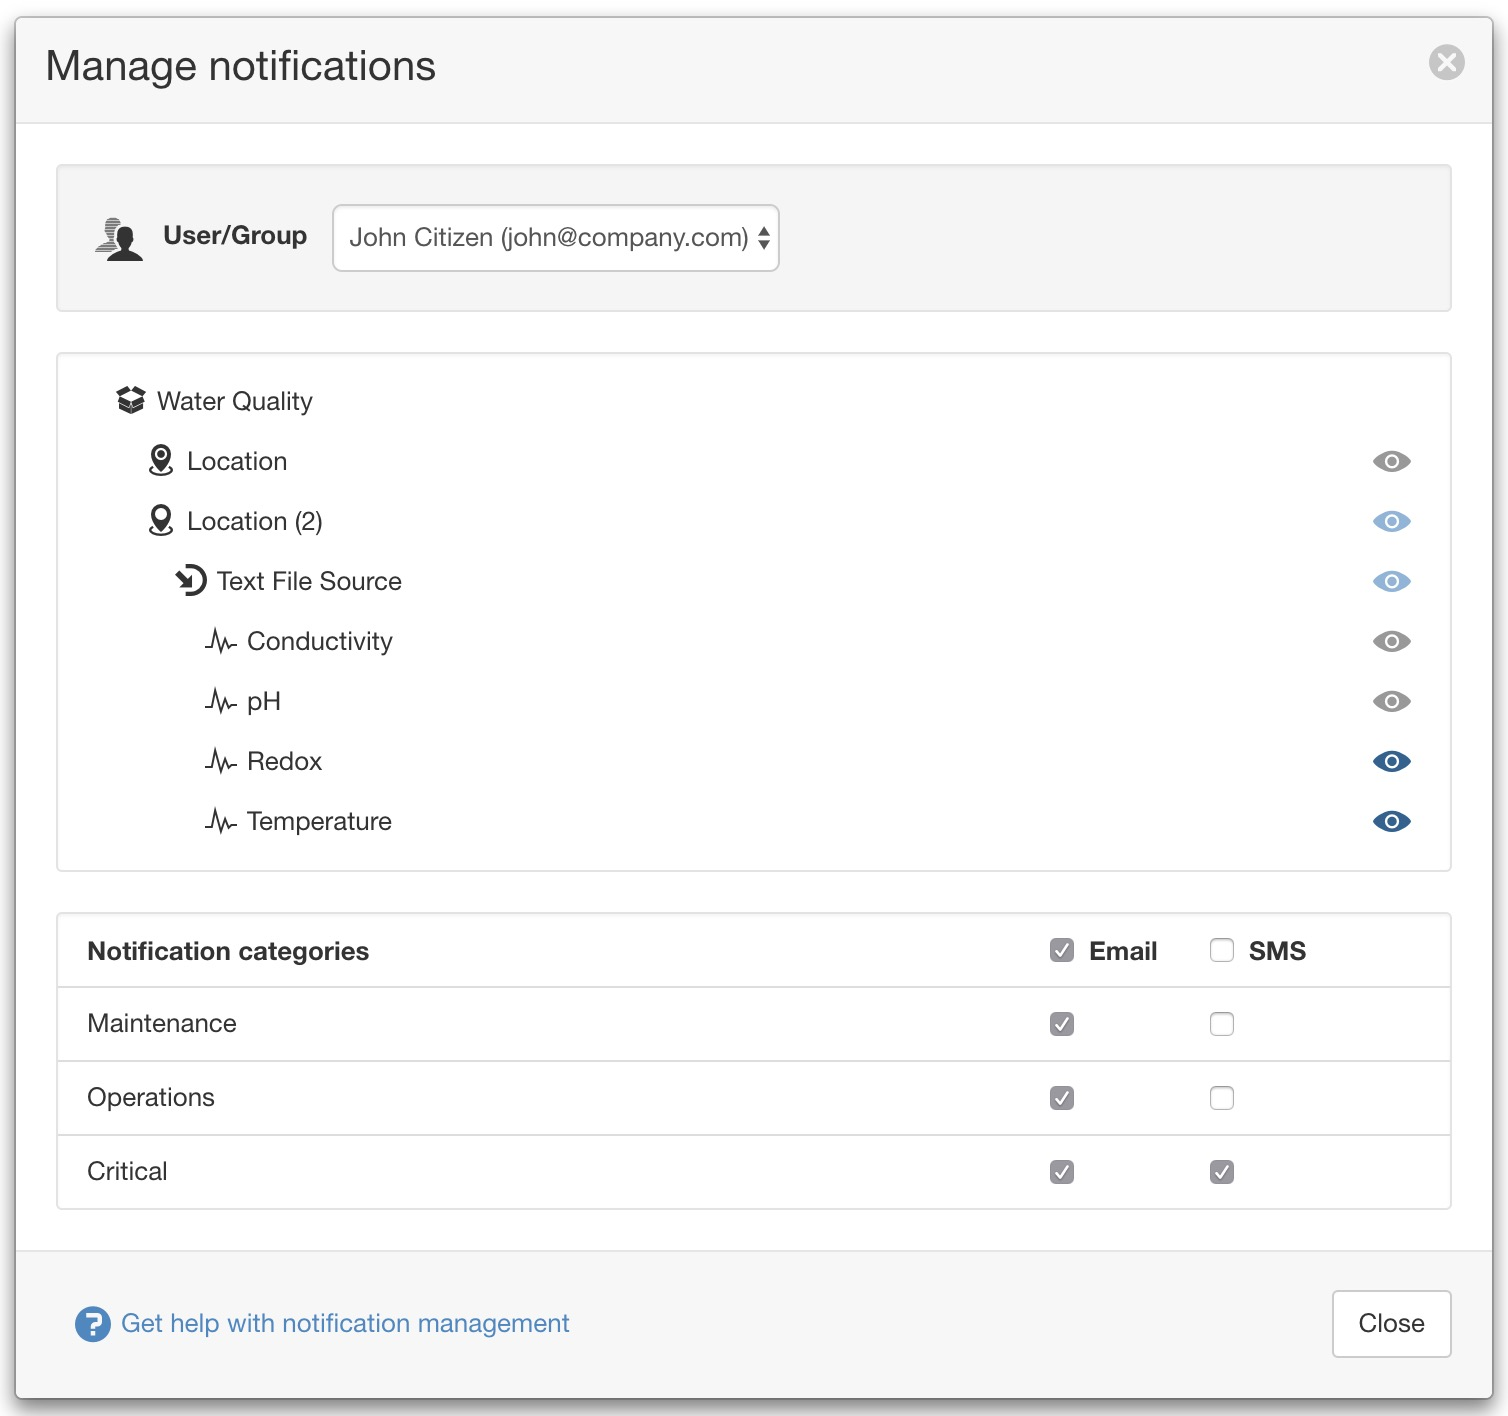
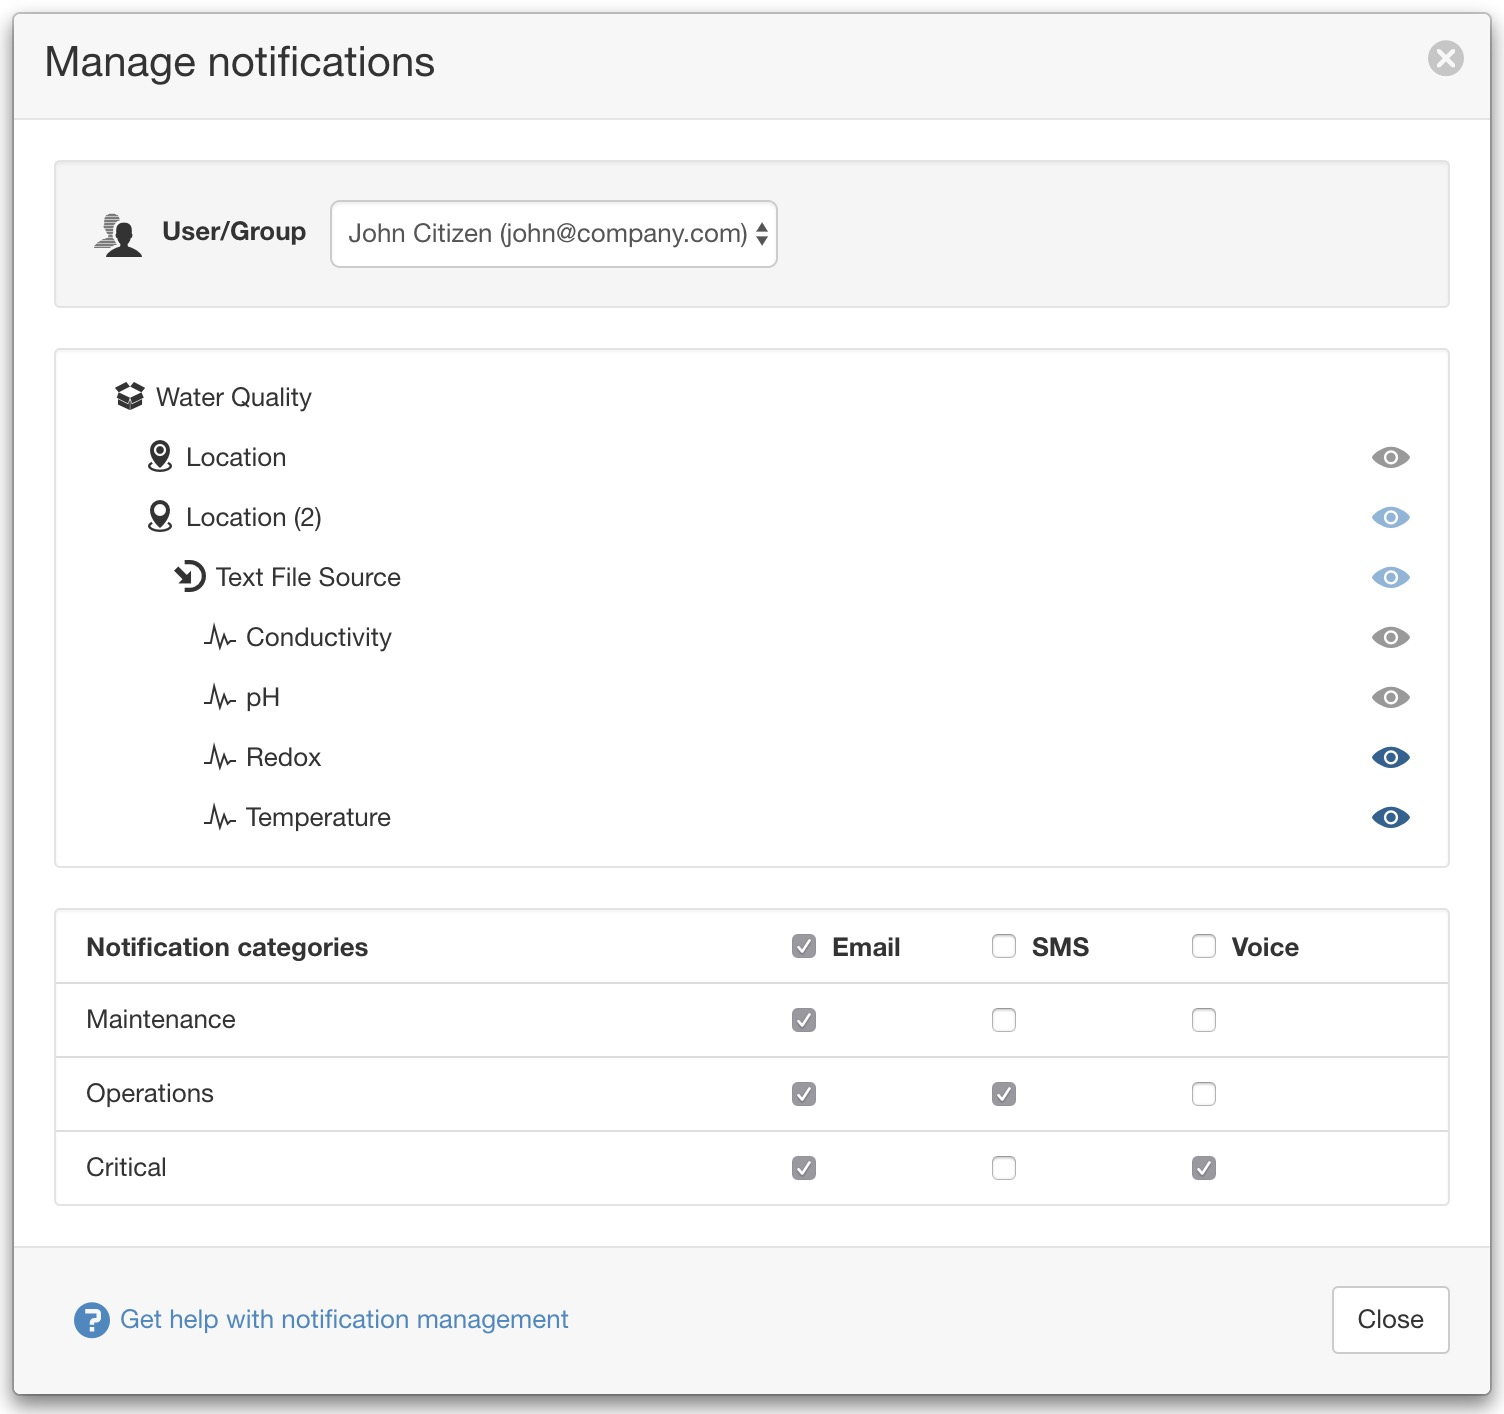
add 'voice' transport option to user notification categories

diff --git a/source/api/resources/nodes.rst b/source/api/resources/nodes.rst
@@ -1048,18 +1048,21 @@ Response
                 "notificationCategories": [
                     {
                         "category": "Maintenance",
-                        "email": false,
-                        "sms": false
+                        "email": true,
+                        "sms": false,
+                        "voice": false
                     },
                     {
                         "category": "Operations",
                         "email": true,
-                        "sms": false
+                        "sms": true,
+                        "voice": false
                     },
                     {
                         "category": "Critical",
                         "email": true,
-                        "sms": true
+                        "sms": false,
+                        "voice": true
                     }
                 ]
             }
@@ -1083,17 +1086,20 @@ Response
                             {
                                 "category": "Maintenance",
                                 "email": true,
-                                "sms": true
+                                "sms": true,
+                                "voice": false
                             },
                             {
                                 "category": "Operations",
                                 "email": true,
-                                "sms": true
+                                "sms": true,
+                                "voice": false
                             },
                             {
                                 "category": "Critical",
                                 "email": true,
-                                "sms": true
+                                "sms": true,
+                                "voice": true
                             }
                         ]
                     }

diff --git a/source/topics/user_preferences/index.rst b/source/topics/user_preferences/index.rst
@@ -96,10 +96,10 @@ Click or touch the Workspace labels to display your preferences.
 	
 
 Within each Workspace, you will see a list of Notification Categories specific to the Workspace.
-Use the SMS/Email checkboxes to set your preferences on what types of notifications you would like to receive for each Category.
+Use the SMS, Email & Voice checkboxes to set your preferences on what types of notifications you would like to receive for each Category.
 
 .. note:: 
-	You must also be subscribed to the individual Nodes you would like to receive the notifications for. See :ref:`Subscribe to Nodes <subscribe-nodes>` for full details.
+	You must also be subscribed to the individual Nodes you would like to receive the notifications for. See :ref:`Subscribe to Nodes <subscribe-nodes>` for full details. A valid phone number must also be provided in order to receive SMS & Voice notifications.
 
 .. only:: not latex
 

diff --git a/source/topics/notifications/index.rst b/source/topics/notifications/index.rst
@@ -3,7 +3,7 @@
 Notifications
 ==================
 
-|icon-notification| Notifications are used to inform users and groups of an :ref:`alarm <alarms>` or other condition via Email and SMS. 
+|icon-notification| Notifications are used to inform users and groups of an :ref:`alarm <alarms>` or other condition via Email, SMS and Voice message. 
 Users can personally subscribe to specific Nodes and specify their :ref:`notification preferences <user-notification-preferences>` or you can :ref:`manage notifications <notifications-manage>` on behalf of a user or group if you have *manage notifications* security permission.
 
 .. only:: not latex
